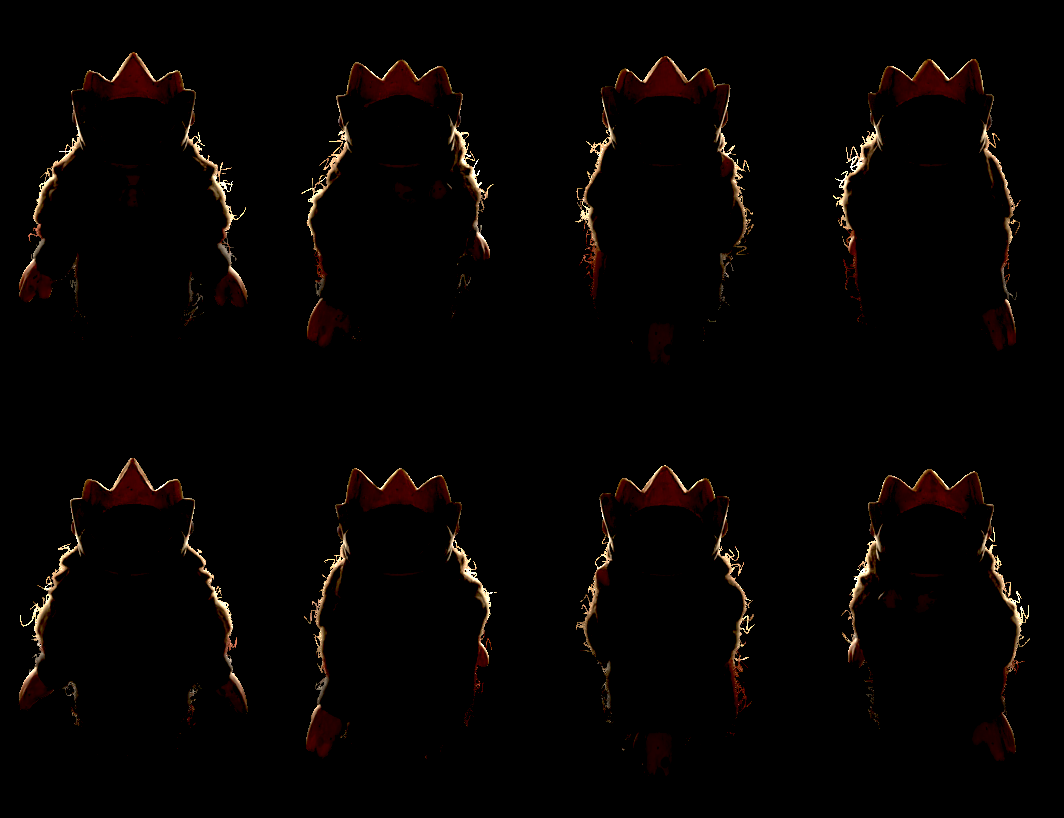
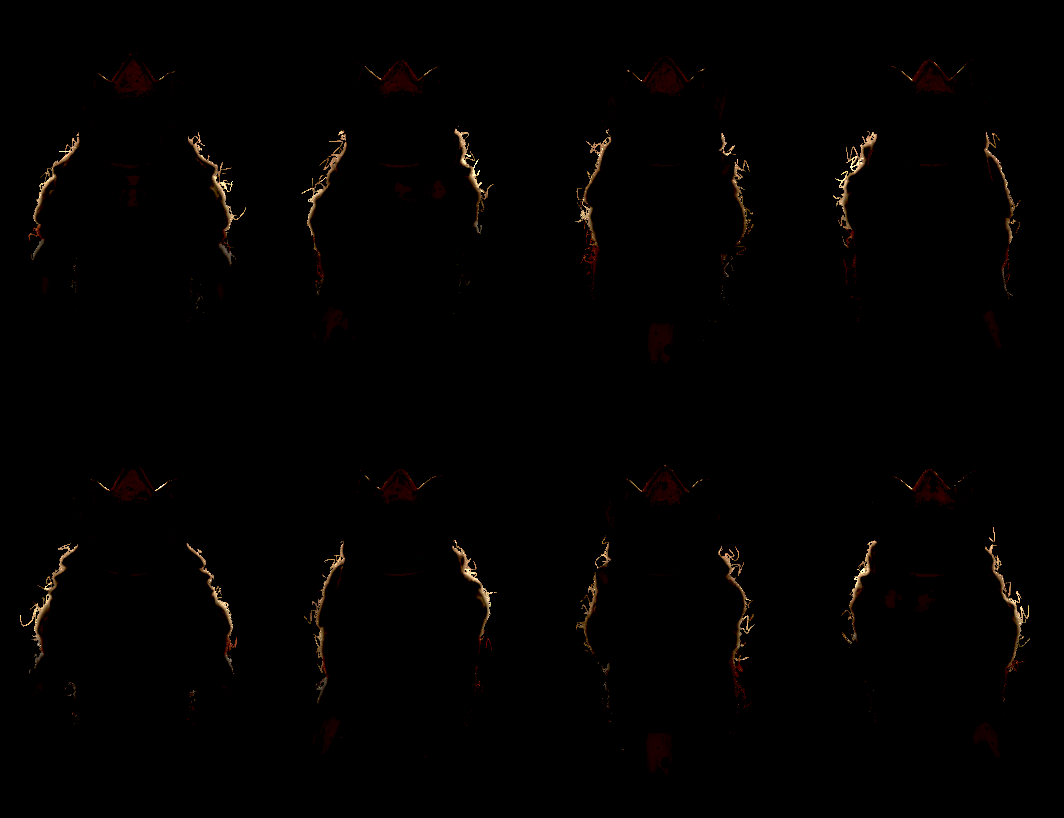
Diorama king: softer rim, crown spot, no leaf specks on the back row
Re-baked the 8 headings with the play rim at 2250 on the felt only
(KING_RIM_FIBONLY) plus a crown-only spot (CROWN_RIM 2500 at 8.5 deg), so
hands and face stay out of the rim and the crown keeps its orange glow,
closer to the r16 'A: as is' target. The set depth mesh put floating
leaves in front of him on a5/e5/c5: the sprite now tests depth 2 units
nearer against the set and at true depth over cards (cards write a
stencil bit).

diff --git a/src/diorama/KingSprite.tsx b/src/diorama/KingSprite.tsx
@@ -24,7 +24,15 @@ function useSheet(): KingSheet {
   return sheet;
 }
 
-const vert = /* glsl */ `varying vec2 vUv; void main(){ vUv = uv; gl_Position = projectionMatrix * modelViewMatrix * vec4(position, 1.0); }`;
+// Depth only is pulled depthBias toward the camera (the image stays put): the set plate has leaves floating in
+// front of the back wall, and its depth mesh put them in front of his face on the back row.
+const vert = /* glsl */ `uniform float depthBias; varying vec2 vUv;
+void main(){
+  vUv = uv;
+  vec4 mv = modelViewMatrix * vec4(position, 1.0);
+  vec4 p = projectionMatrix * mv, pb = projectionMatrix * (mv + vec4(0.0, 0.0, depthBias, 0.0));
+  gl_Position = vec4(p.xy, pb.z / pb.w * p.w, p.w);
+}`;
 const frag = /* glsl */ `
 uniform sampler2D map; uniform sampler2D glow; uniform float invExpo; uniform float glowK; uniform vec2 tile; uniform vec2 tiles;
 varying vec2 vUv;
@@ -36,6 +44,10 @@ void main(){
   gl_FragColor = vec4(c.rgb * invExpo + g * g * glowK, c.a);
 }`;
 
+// Against the set he is tested DEPTH_BIAS nearer than he is; that is more than one square, so where a card is
+// drawn (cards write CARD_STENCIL) a second pass tests him at his true depth instead.
+const DEPTH_BIAS = 2.0;  // stage units; 1.5 still let a few leaf specks through on a5/e5/c5
+export const CARD_STENCIL = 1;
 const STEP = 0.2;  // a turn walks through the headings in between over this long
 const tileOf = (yaw: number, n: number) => ((Math.round(yaw / (2 * Math.PI / n)) % n) + n) % n;
 
@@ -43,8 +55,8 @@ const tileOf = (yaw: number, n: number) => ((Math.round(yaw / (2 * Math.PI / n))
 export function KingSprite({ at, yaw = 0, onClick }: { at: [number, number]; yaw?: number; onClick?: () => void }) {
   const s = useSheet();
   const [map, glow] = useLoader(THREE.TextureLoader, [`${BASE}king8.webp`, `${BASE}king8-glow.png`]);
-  const mesh = useRef<THREE.Mesh>(null);
-  const { geometry, material, basis, alpha } = useMemo(() => {
+  const mesh = useRef<THREE.Group>(null);
+  const { geometry, material, onCards, basis, alpha } = useMemo(() => {
     map.colorSpace = THREE.SRGBColorSpace; map.generateMipmaps = true; map.needsUpdate = true;
     glow.colorSpace = THREE.NoColorSpace;
     const { x0, x1, y0, y1 } = s.quad;
@@ -56,18 +68,22 @@ export function KingSprite({ at, yaw = 0, onClick }: { at: [number, number]; yaw
       vertexShader: vert, fragmentShader: frag, transparent: true, depthWrite: false,
       uniforms: {
         map: { value: map }, glow: { value: glow }, invExpo: { value: Math.pow(2, -s.exposure) }, glowK: { value: s.glowK },
-        tile: { value: new THREE.Vector2() }, tiles: { value: new THREE.Vector2(...s.tiles) },
+        tile: { value: new THREE.Vector2() }, depthBias: { value: DEPTH_BIAS }, tiles: { value: new THREE.Vector2(...s.tiles) },
       },
+      stencilWrite: true, stencilRef: CARD_STENCIL, stencilFunc: THREE.NotEqualStencilFunc,
     });
+    const mc = m.clone();
+    mc.uniforms = { ...m.uniforms, depthBias: { value: 0 } };
+    mc.stencilFunc = THREE.EqualStencilFunc;
     const v = (a: number[]) => new THREE.Vector3(a[0], a[1], a[2]);
     const b = new THREE.Matrix4().makeBasis(v(s.right), v(s.up), v(s.fwd).negate());
     // His alpha, for clicks: only where he is drawn, so the square behind his head stays clickable.
     const img = map.image as HTMLImageElement, c = document.createElement("canvas");
     c.width = img.width; c.height = img.height;
     const cx = c.getContext("2d", { willReadFrequently: true })!; cx.drawImage(img, 0, 0);
-    return { geometry: g, material: m, basis: new THREE.Quaternion().setFromRotationMatrix(b), alpha: { d: cx.getImageData(0, 0, c.width, c.height).data, w: c.width, h: c.height } };
+    return { geometry: g, material: m, onCards: mc, basis: new THREE.Quaternion().setFromRotationMatrix(b), alpha: { d: cx.getImageData(0, 0, c.width, c.height).data, w: c.width, h: c.height } };
   }, [map, glow, s]);
-  useEffect(() => () => { geometry.dispose(); material.dispose(); }, [geometry, material]);
+  useEffect(() => () => { geometry.dispose(); material.dispose(); onCards.dispose(); }, [geometry, material, onCards]);
 
   // The heading on show steps one tile at a time toward the target, the whole turn in about STEP seconds.
   const turn = useRef({ shown: tileOf(yaw, s.headings), wait: 0, dt: 0 });
@@ -115,6 +131,9 @@ export function KingSprite({ at, yaw = 0, onClick }: { at: [number, number]; yaw
       }
     };
   }, [s, alpha]);
-  return <mesh ref={mesh} geometry={geometry} material={material} renderOrder={10} frustumCulled={false} raycast={raycast}
-    onClick={onClick ? e => { e.stopPropagation(); onClick(); } : undefined} />;
+  return <group ref={mesh}>
+    <mesh geometry={geometry} material={material} renderOrder={10} frustumCulled={false} raycast={raycast}
+      onClick={onClick ? e => { e.stopPropagation(); onClick(); } : undefined} />
+    <mesh geometry={geometry} material={onCards} renderOrder={10} frustumCulled={false} raycast={() => {}} />
+  </group>;
 }

diff --git a/src/diorama/Diorama.tsx b/src/diorama/Diorama.tsx
@@ -9,7 +9,7 @@ import * as THREE from "three";
 import { BloomEffect, Effect, EffectComposer, EffectPass, LUT3DEffect, LUTCubeLoader, RenderPass } from "postprocessing";
 import { GradeEffect } from "./grade";
 import { King } from "./King";
-import { KingSprite } from "./KingSprite";
+import { CARD_STENCIL, KingSprite } from "./KingSprite";
 import { yawOf } from "./facing";
 import type { Facing } from "./facing";
 import { cutSet, loadSet, playCamera, slide, sourceFor } from "./set";
@@ -107,7 +107,7 @@ function Post() {
   // disposed by the first cleanup and then drawn black. `?dio=nobloom,nograde,nolut` drops stages to compare.
   const [composer, setComposer] = useState<EffectComposer | null>(null);
   useEffect(() => {
-    const c = new EffectComposer(gl, { frameBufferType: THREE.HalfFloatType, multisampling: Math.min(4, gl.capabilities.maxSamples) });
+    const c = new EffectComposer(gl, { frameBufferType: THREE.HalfFloatType, stencilBuffer: true, multisampling: Math.min(4, gl.capabilities.maxSamples) });
     c.addPass(new RenderPass(scene, camera));
     const dbg = new URLSearchParams(location.search).get("dio") ?? "";
     const bloom = new BloomEffect({ luminanceThreshold: 1.0, luminanceSmoothing: 0.4, intensity: 1.1, mipmapBlur: true, radius: 0.55 });
@@ -219,7 +219,9 @@ function Card({ pc, S, onClick }: { pc: DioramaPiece & { sprite: NonNullable<Dio
   return <group position={[0, 0, 0]} onClick={e => { e.stopPropagation(); onClick(); }}>
     <mesh castShadow position={[(b.x + b.w / 2 - 50) * k * (mirror ? -1 : 1), 0, (108 - b.y - b.h / 2) * k]} rotation={[Math.PI / 2, 0, 0]} scale={[mirror ? -1 : 1, 1, 1]}>
       <planeGeometry args={[w, h]} />
-      <meshBasicMaterial map={tex} color={tint} alphaTest={0.5} side={THREE.DoubleSide} shadowSide={THREE.DoubleSide} />
+      {/* stencil CARD_STENCIL where drawn: the pre-rendered king sorts against cards by true depth (KingSprite) */}
+      <meshBasicMaterial map={tex} color={tint} alphaTest={0.5} side={THREE.DoubleSide} shadowSide={THREE.DoubleSide}
+        stencilWrite stencilRef={CARD_STENCIL} stencilZPass={THREE.ReplaceStencilOp} />
     </mesh>
   </group>;
 }
@@ -277,7 +279,7 @@ export function Diorama({ w, h, squares, pieces, onSquare, showFps }: { w: numbe
   const [fps, setFps] = useState(0);
   const n = sourceFor(w, h);
   return <div className="diorama">
-    <Canvas flat shadows={{ type: THREE.VSMShadowMap }} dpr={[1, 2]} camera={{ fov: 30, position: [0, 10, 30] }} gl={{ antialias: false, powerPreference: "high-performance" }}
+    <Canvas flat shadows={{ type: THREE.VSMShadowMap }} dpr={[1, 2]} camera={{ fov: 30, position: [0, 10, 30] }} gl={{ antialias: false, stencil: true, powerPreference: "high-performance" }}
       onCreated={({ gl, scene, camera }) => {
         if (import.meta.env.DEV) (window as unknown as { __dio: unknown }).__dio = { gl, scene, camera }; gl.setClearColor(new THREE.Color(0.0008, 0.0012, 0.0024), 1); scene.background = new THREE.Color(0.0008, 0.0012, 0.0024); }}>
       <Suspense fallback={null}>

diff --git a/tools/art/diorama/bake_king_sprites.py b/tools/art/diorama/bake_king_sprites.py
@@ -106,6 +106,39 @@ if rim is not None and os.environ.get("RIM_PLAY"):
     rim.location = ctr + d_ * float(os.environ.get("RIM_D", 1.0)) * H
     rim.rotation_euler = (ctr - rim.location).to_track_quat("-Z", "Y").to_euler()
     bpy.context.view_layer.update()
+# CROWN_RIM: with KING_RIM_FIBONLY the rim lights only the felt (fibres and shells), so hands and face stay out
+# of it but so does the crown. This puts a narrow spot, linked to the body mesh alone, behind and above the crown
+# (CROWN_EL degrees above the view ray, CROWN_D x H away), its cone just wide enough for the crown.
+if os.environ.get("CROWN_RIM"):
+    Pk = king_points()
+    lo, hi = Pk.min(0), Pk.max(0)
+    crown = Vector((float(lo[0] + hi[0]) / 2, float(lo[1] + hi[1]) / 2, float(hi[2]) - 0.1 * H))
+    M3 = cam.matrix_world.to_3x3()
+    f_, r_ = -(M3 @ Vector((0, 0, 1))), M3 @ Vector((1, 0, 0))
+    d_ = Matrix.Rotation(math.radians(float(os.environ.get("CROWN_EL", 30))), 3, r_) @ f_
+    dist = float(os.environ.get("CROWN_D", 1.0)) * H
+    cl = bpy.data.lights.new("crown_rim", "SPOT")
+    cl.energy = float(os.environ["CROWN_RIM"]) * H * H
+    cl.color = (1.0, 0.72, 0.42)
+    cl.spot_size = 2 * math.atan(float(os.environ.get("CROWN_R", 0.22)) * H / dist)
+    cl.spot_blend = 0.5
+    cl.shadow_soft_size = 0.1 * H
+    try:
+        cl.cycles.cast_shadow = False
+    except Exception:
+        pass
+    co_ = bpy.data.objects.new("crown_rim", cl)
+    bpy.context.scene.collection.objects.link(co_)
+    co_.location = crown + d_ * dist
+    co_.rotation_euler = (crown - co_.location).to_track_quat("-Z", "Y").to_euler()
+    rc_ = bpy.data.collections.new("CrownRimRecv")
+    for o_ in king:
+        if o_.type == "MESH" and not o_.name.startswith("felt_fibres") and "_shell" not in o_.name:
+            rc_.objects.link(o_)
+    co_.light_linking.receiver_collection = rc_
+    bpy.context.view_layer.update()
+    print("CHECK crown_rim", tuple(round(x, 3) for x in co_.location), "energy", round(cl.energy, 1),
+          "cone", round(math.degrees(cl.spot_size), 1), [o.name for o in rc_.objects], flush=True)
 if rim is not None:
     print("CHECK rim", tuple(round(x, 3) for x in rim.location), "energy", round(rim.data.energy, 1), "size", round(rim.data.size, 3), flush=True)
 
@@ -216,7 +249,7 @@ info = {
     "right": list(right), "up": list(up), "fwd": list(fwd), "camera": list(cpos), "d0": d0, "dq": dq,
     "anchor": list(P0), "quad": quad, "exposure": float(os.environ.get("EXPO", 0)), "glowK": a.glow_k,
     "headings": 8, "samples": a.samples,
-    "rim": {k: os.environ.get(k) for k in ("KING_RIM", "KING_RIM_S", "RIM_PLAY", "RIM_EL", "RIM_D")},
+    "rim": {k: os.environ.get(k) for k in ("KING_RIM", "KING_RIM_S", "KING_RIM_FIBONLY", "RIM_PLAY", "RIM_EL", "RIM_D", "CROWN_RIM", "CROWN_EL", "CROWN_D", "CROWN_R")},
 }
 json.dump(info, open(os.path.join(a.out, "king.json"), "w"), indent=1)
 print("RENDER_TOTAL %.1f" % sum(times.values()), "WALL %.1f" % (time.time() - T0), json.dumps(times), flush=True)

diff --git a/docs/HANDOFF.md b/docs/HANDOFF.md
@@ -18,9 +18,13 @@
   slid and scaled to his square; turns step through the in-between
   headings in ~0.2 s; idle is still plus ~1% breathing. The rigged glTF
   still casts his live VSM shadow (shadow-only), and `?king=live` shows it
-  instead. Rebake: `bake_king_sprites.py` with `KING_RIM=5000 RIM_PLAY=1`
-  (rim placed behind him for the play camera; the haze must stay in), then
-  `king_atlas.py`. Gotcha: OIIO un-premultiplies on PNG write unless
+  instead. Rebake: `bake_king_sprites.py` with `KING_RIM=2250
+  KING_RIM_FIBONLY=1 RIM_PLAY=1 CROWN_RIM=2500 CROWN_EL=8.5` (rim behind
+  him for the play camera on the felt only, plus a crown-only spot; the
+  haze must stay in), then `king_atlas.py`. The set's depth mesh puts
+  floating leaves in front of the back wall, so the sprite is depth-tested
+  2 units nearer than it is, except over cards (stencil), where true depth
+  is used. Gotcha: OIIO un-premultiplies on PNG write unless
   `oiio:UnassociatedAlpha=1` (white fringe). Pieces face their last move
   (`src/diorama/facing.ts`). Dev-only: `?shells=N`, `?kingsheet=name`.
 Live at sasa-research-group.github.io/chezz (Pages deploys from `main`).
